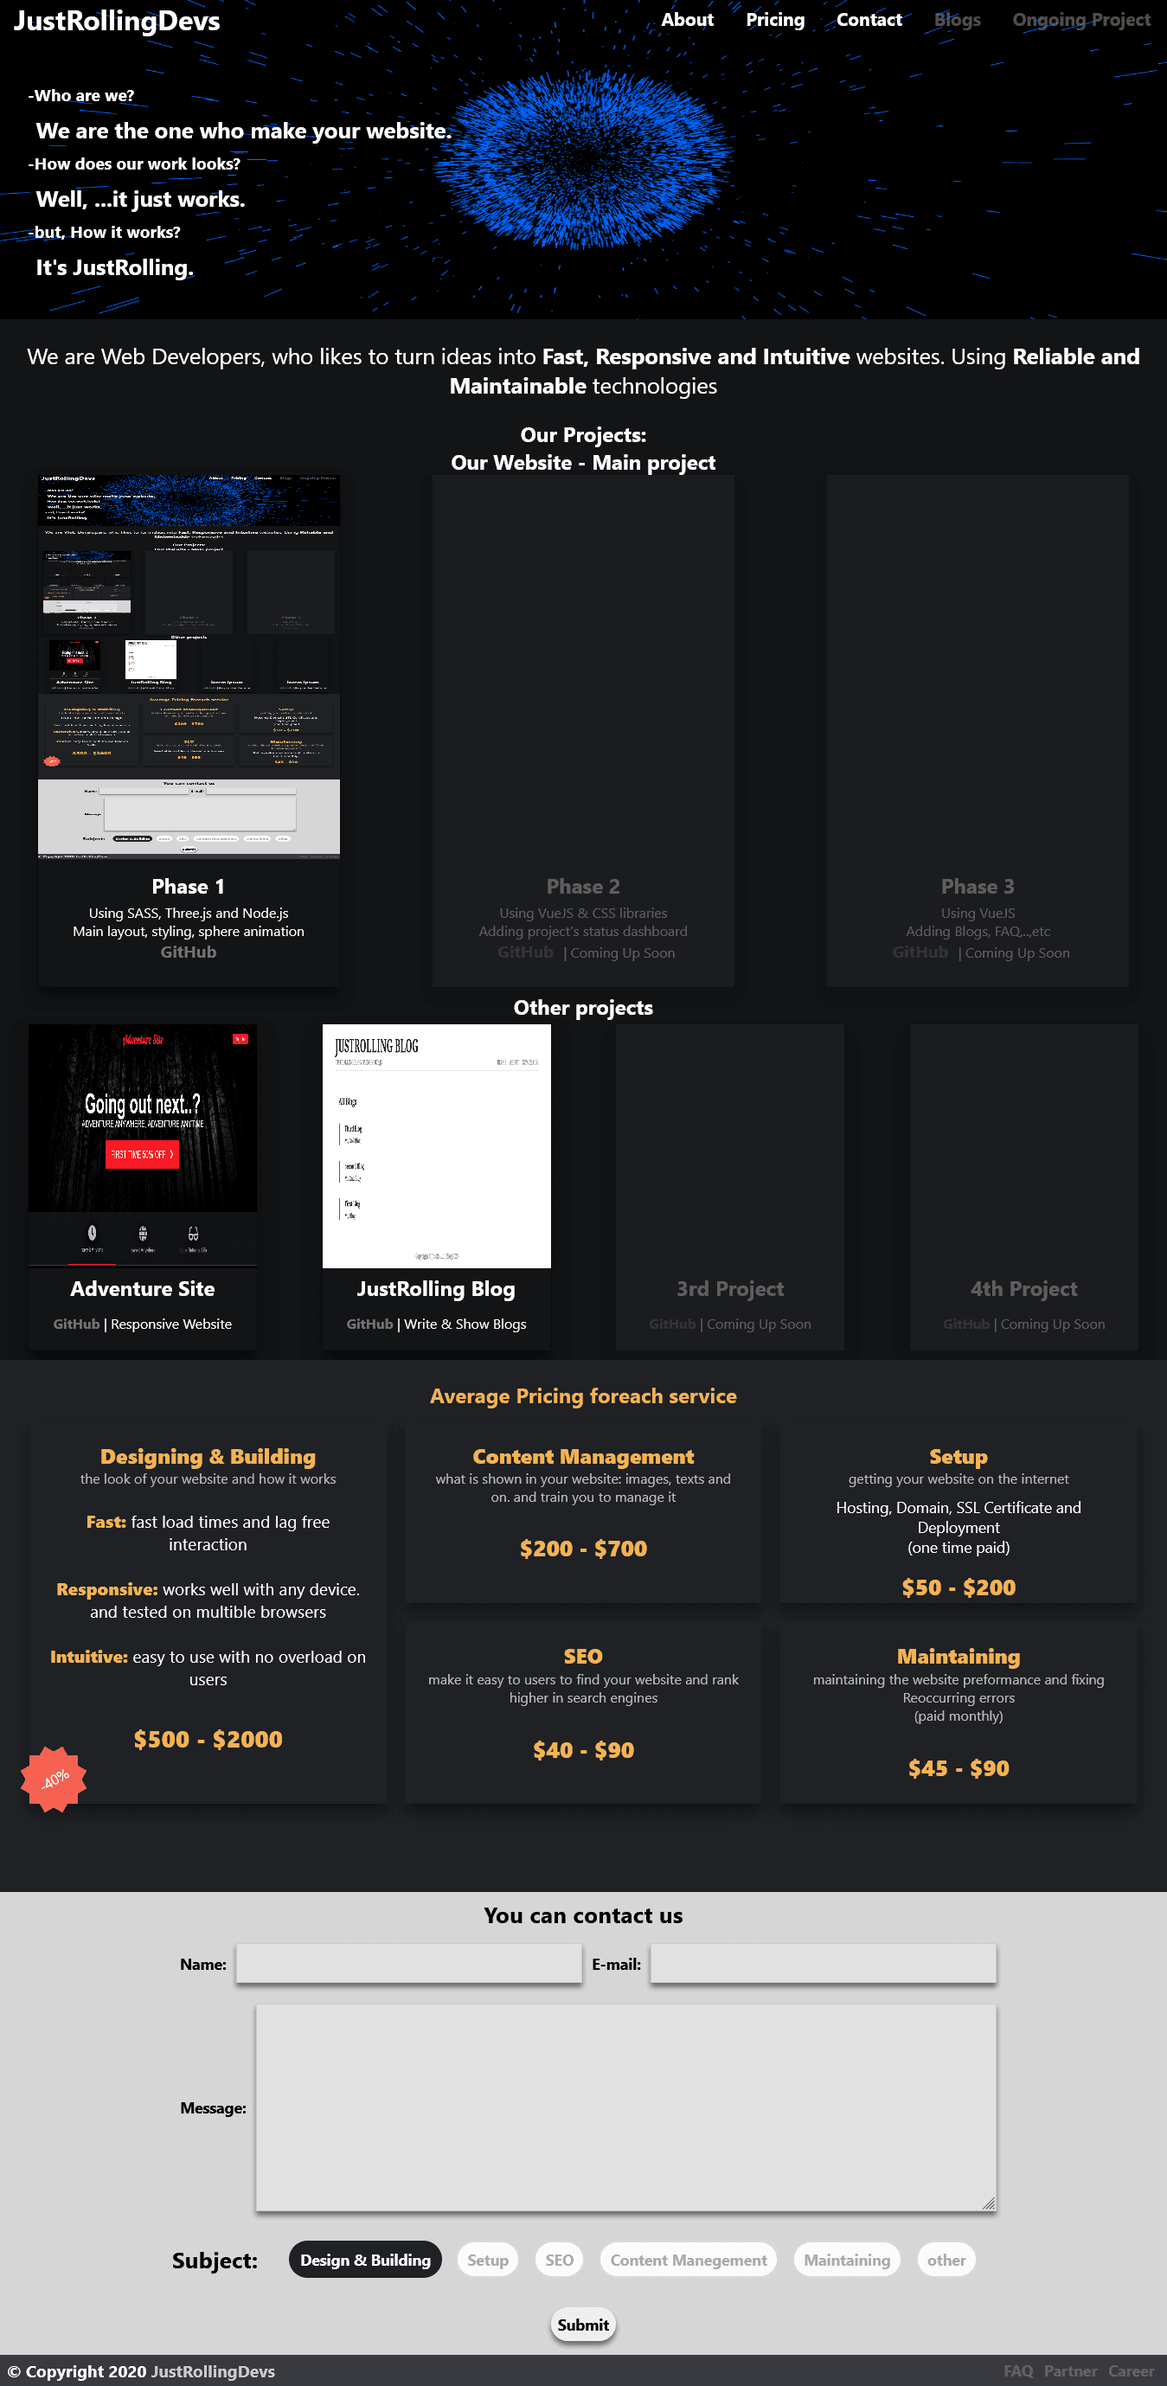
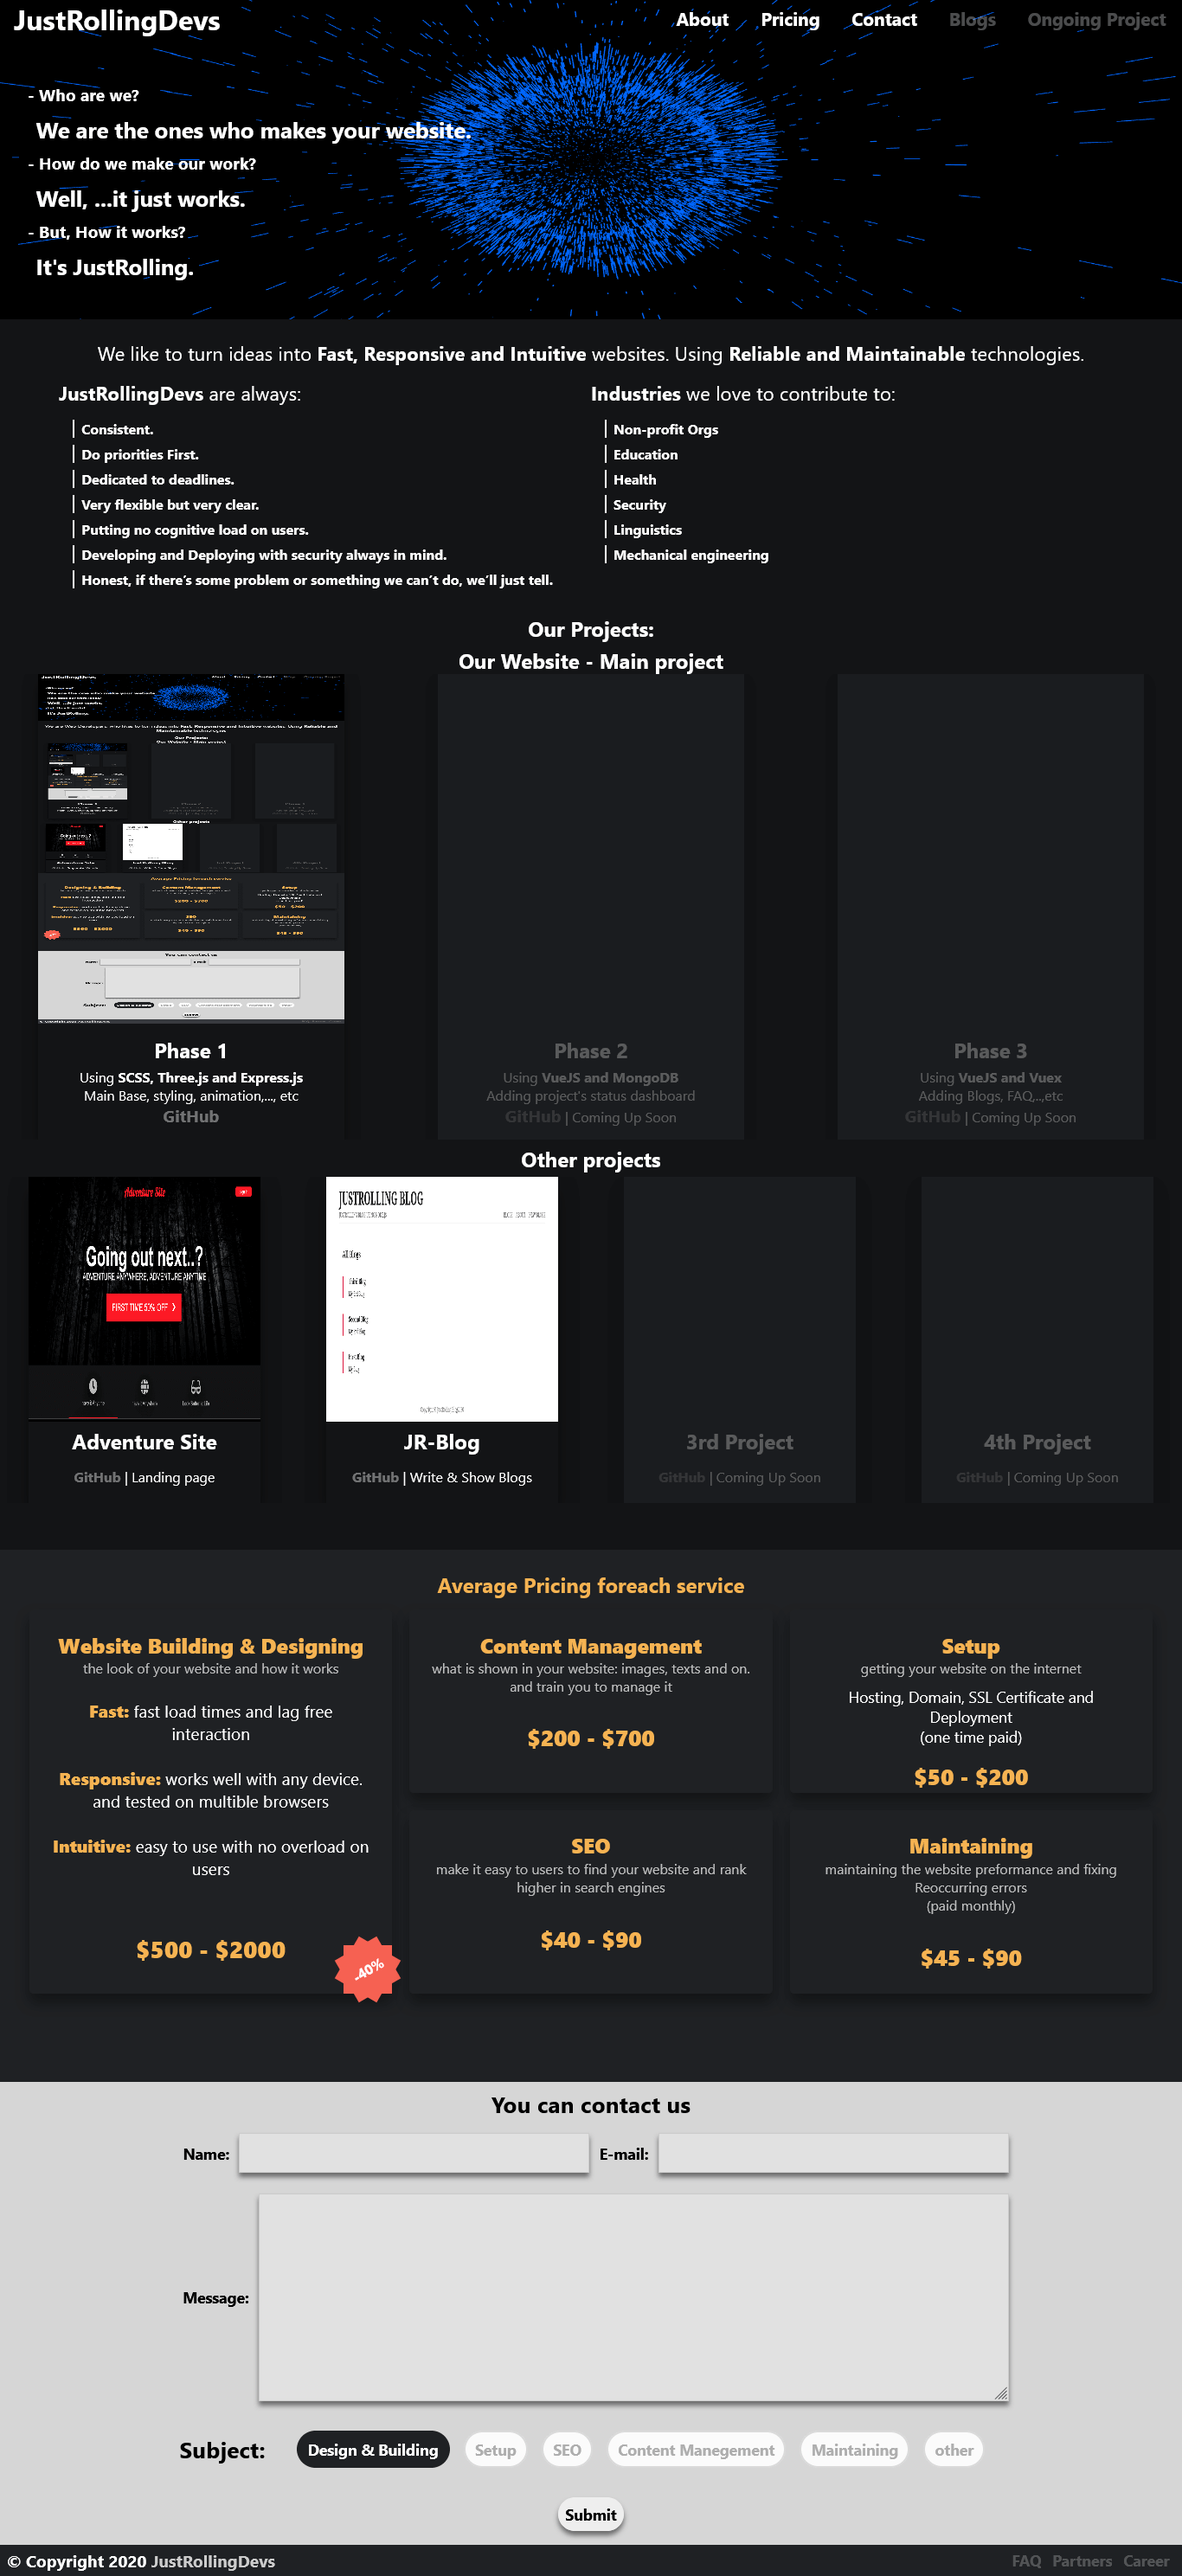
addAbout

diff --git a/views/index.html b/views/index.html
@@ -9,7 +9,7 @@
     <title>JRDevs :: Web Development and Design</title>
     <meta
       name="description"
-      content="JustRollingDevs provides fast, responsive and intuitive Website Development and Design. Also offers website setup and deployment, website's content management, SEO, maintaining and others"
+      content="JustRollingDevs provides fast, responsive and intuitive Website Development and Design. Beside that we offer website setup, deployment, content management, SEO and maintaining."
     />
   </head>
 
@@ -70,8 +70,36 @@
         <h2>
           We like to turn ideas into
           <span>Fast, Responsive and Intuitive</span> websites. Using
-          <span>Reliable and Maintainable</span> technologies
+          <span>Reliable and Maintainable</span> technologies.
         </h2>
+        <div class="details">
+          <div id="traits">
+            <h2><strong>JustRollingDevs</strong> are always:</h2>
+            <ul>
+              <li>Consistent.</li>
+              <li>Do priorities First.</li>
+              <li>Dedicated to deadlines.</li>
+              <li>Very flexible but very clear.</li>
+              <li>Putting no cognitive load on users.</li>
+              <li>Developing and Deploying with security always in mind.</li>
+              <li>
+                Honest, if there’s some problem or something we can’t do, we’ll
+                just tell.
+              </li>
+            </ul>
+          </div>
+          <div id="industries">
+            <h2><b>Industries</b> we love to contribute to:</h2>
+            <ul>
+              <li>Non-profit Orgs</li>
+              <li>Education</li>
+              <li>Health</li>
+              <li>Security</li>
+              <li>Linguistics</li>
+              <li>Mechanical engineering</li>
+            </ul>
+          </div>
+        </div>
       </div>
       <div class="projects-list">
         <h3>Our Projects:</h3>
@@ -87,7 +115,7 @@
             </div>
             <div class="phase-content">
               <h3>Phase 1</h3>
-              <p>Using SASS, Three.js and Node.js</p>
+              <p>Using <strong>SCSS, Three.js and Express.js</strong></p>
               <p>Main Base, styling, animation,..., etc</p>
               <a
                 href="https://github.com/JustRollingDevs/JustRollingDevs"
@@ -101,7 +129,7 @@
             <div class="phase-visual"></div>
             <div class="phase-content">
               <h3>Phase 2</h3>
-              <p>Using VueJS and MongoDB</p>
+              <p>Using <strong>VueJS and MongoDB</strong></p>
               <p>Adding project's status dashboard</p>
               <p><a href="javascript:;">GitHub</a> | Coming Up Soon</p>
             </div>
@@ -110,7 +138,7 @@
             <div class="phase-visual"></div>
             <div class="phase-content">
               <h3>Phase 3</h3>
-              <p>Using VueJS</p>
+              <p>Using <strong>VueJS and Vuex</strong></p>
               <p>Adding Blogs, FAQ,..,etc</p>
               <p><a href="javascript:;">GitHub</a> | Coming Up Soon</p>
             </div>
@@ -191,7 +219,7 @@
       <div class="avg-details">
         <div class="services-card building">
           <h1 title="Front-end, Back-end and Design">
-            Website Building & Designing
+            <strong>Website Building & Designing</strong>
           </h1>
           <span class="description"
             >the look of your website and how it works</span
@@ -207,7 +235,7 @@
             </li>
           </ul>
           <span class="price">$500 - $2000</span>
-          <span class="sale" title="40% Sale">-40%</span>
+          <span class="sale" title="40% Sale"><b>-40%</b></span>
         </div>
         <div class="services-card setup">
           <h2>Setup</h2>
@@ -349,7 +377,7 @@
     <footer id="footer">
       <p class="copyright">
         © Copyright 2020
-        <a href="https://justrollingdevs.com/">JustRollingDevs</a>
+        <a href="https://github.com/JustRollingDevs/">JustRollingDevs</a>
       </p>
       <ul>
         <li><a href="javascript:;" title="in production">FAQ</a></li>

diff --git a/public/css/styles.css b/public/css/styles.css
@@ -176,13 +176,13 @@ li {
 }
 
 #about .summary {
-  text-align: center;
   margin-bottom: 1.5rem;
 }
 
 #about .summary h2 {
-  font-size: 1.6rem;
+  font-size: 1.4rem;
   font-weight: 500;
+  text-align: center;
 }
 
 #about .summary h2 span {
@@ -190,12 +190,90 @@ li {
 }
 
 @media screen and (max-width: 420px) {
-  #about .summary p {
-    font-size: 1.3rem;
+  #about .summary h2 {
+    font-size: 0.9rem;
     font-weight: 300;
+    margin-left: 0.4rem;
   }
-  #about .summary p span {
+  #about .summary h2 span {
     font-weight: 500;
+  }
+}
+
+#about .summary .details {
+  position: relative;
+  display: -ms-grid;
+  display: grid;
+  -ms-grid-columns: (1fr)[2];
+      grid-template-columns: repeat(2, 1fr);
+      grid-template-areas: 'traits industries';
+  width: 90%;
+  margin: 0 auto;
+}
+
+@media screen and (max-width: 420px) {
+  #about .summary .details {
+    display: block;
+  }
+}
+
+#about .summary .details #traits {
+  -ms-grid-row: 1;
+  -ms-grid-column: 1;
+  grid-area: traits;
+  margin-top: 1rem;
+}
+
+#about .summary .details #traits h2 {
+  text-align: left;
+}
+
+#about .summary .details #traits ul {
+  margin-top: 0.5rem;
+  margin-left: 1rem;
+  text-align: left;
+}
+
+#about .summary .details #traits li {
+  margin-top: 0.5rem;
+  padding-left: 0.5rem;
+  font-weight: bold;
+  border-left: 2px solid #fff;
+}
+
+@media screen and (max-width: 420px) {
+  #about .summary .details #traits li {
+    font-size: 0.8rem;
+  }
+}
+
+#about .summary .details #industries {
+  -ms-grid-row: 1;
+  -ms-grid-column: 2;
+  grid-area: industries;
+  margin-top: 1rem;
+}
+
+#about .summary .details #industries h2 {
+  text-align: left;
+}
+
+#about .summary .details #industries ul {
+  margin-top: 0.5rem;
+  margin-left: 1rem;
+  text-align: left;
+}
+
+#about .summary .details #industries li {
+  margin-top: 0.5rem;
+  padding-left: 0.5rem;
+  font-weight: bold;
+  border-left: 2px solid #fff;
+}
+
+@media screen and (max-width: 420px) {
+  #about .summary .details #industries li {
+    font-size: 0.8rem;
   }
 }
 

diff --git a/public/css/styles.scss b/public/css/styles.scss
@@ -119,21 +119,75 @@
   width: 100%;
   height: auto;
   .summary {
-    text-align: center;
     margin-bottom: 1.5rem;
     h2 {
-      font-size: 1.6rem;
+      font-size: 1.4rem;
       font-weight: 500;
+      text-align: center;
       span {
         font-weight: 700;
       }
     }
     @include mQ($breakpoint-sm) {
-      p {
-        font-size: 1.3rem;
+      h2 {
+        font-size: 0.9rem;
         font-weight: 300;
+        margin-left: 0.4rem;
         span {
           font-weight: 500;
+        }
+      }
+    }
+    .details {
+      position: relative;
+      display: grid;
+      grid-template-columns: repeat(2, 1fr);
+      grid-template-areas: 'traits industries';
+      width: 90%;
+      margin: 0 auto;
+      @include mQ($breakpoint-sm) {
+        display: block;
+      }
+      #traits {
+        grid-area: traits;
+        margin-top: 1rem;
+        h2 {
+          text-align: left;
+        }
+        ul {
+          margin-top: 0.5rem;
+          margin-left: 1rem;
+          text-align: left;
+        }
+        li {
+          margin-top: 0.5rem;
+          padding-left: 0.5rem;
+          font-weight: bold;
+          border-left: 2px solid #fff;
+          @include mQ($breakpoint-sm) {
+            font-size: 0.8rem;
+          }
+        }
+      }
+      #industries {
+        grid-area: industries;
+        margin-top: 1rem;
+        h2 {
+          text-align: left;
+        }
+        ul {
+          margin-top: 0.5rem;
+          margin-left: 1rem;
+          text-align: left;
+        }
+        li {
+          margin-top: 0.5rem;
+          padding-left: 0.5rem;
+          font-weight: bold;
+          border-left: 2px solid #fff;
+          @include mQ($breakpoint-sm) {
+            font-size: 0.8rem;
+          }
         }
       }
     }
